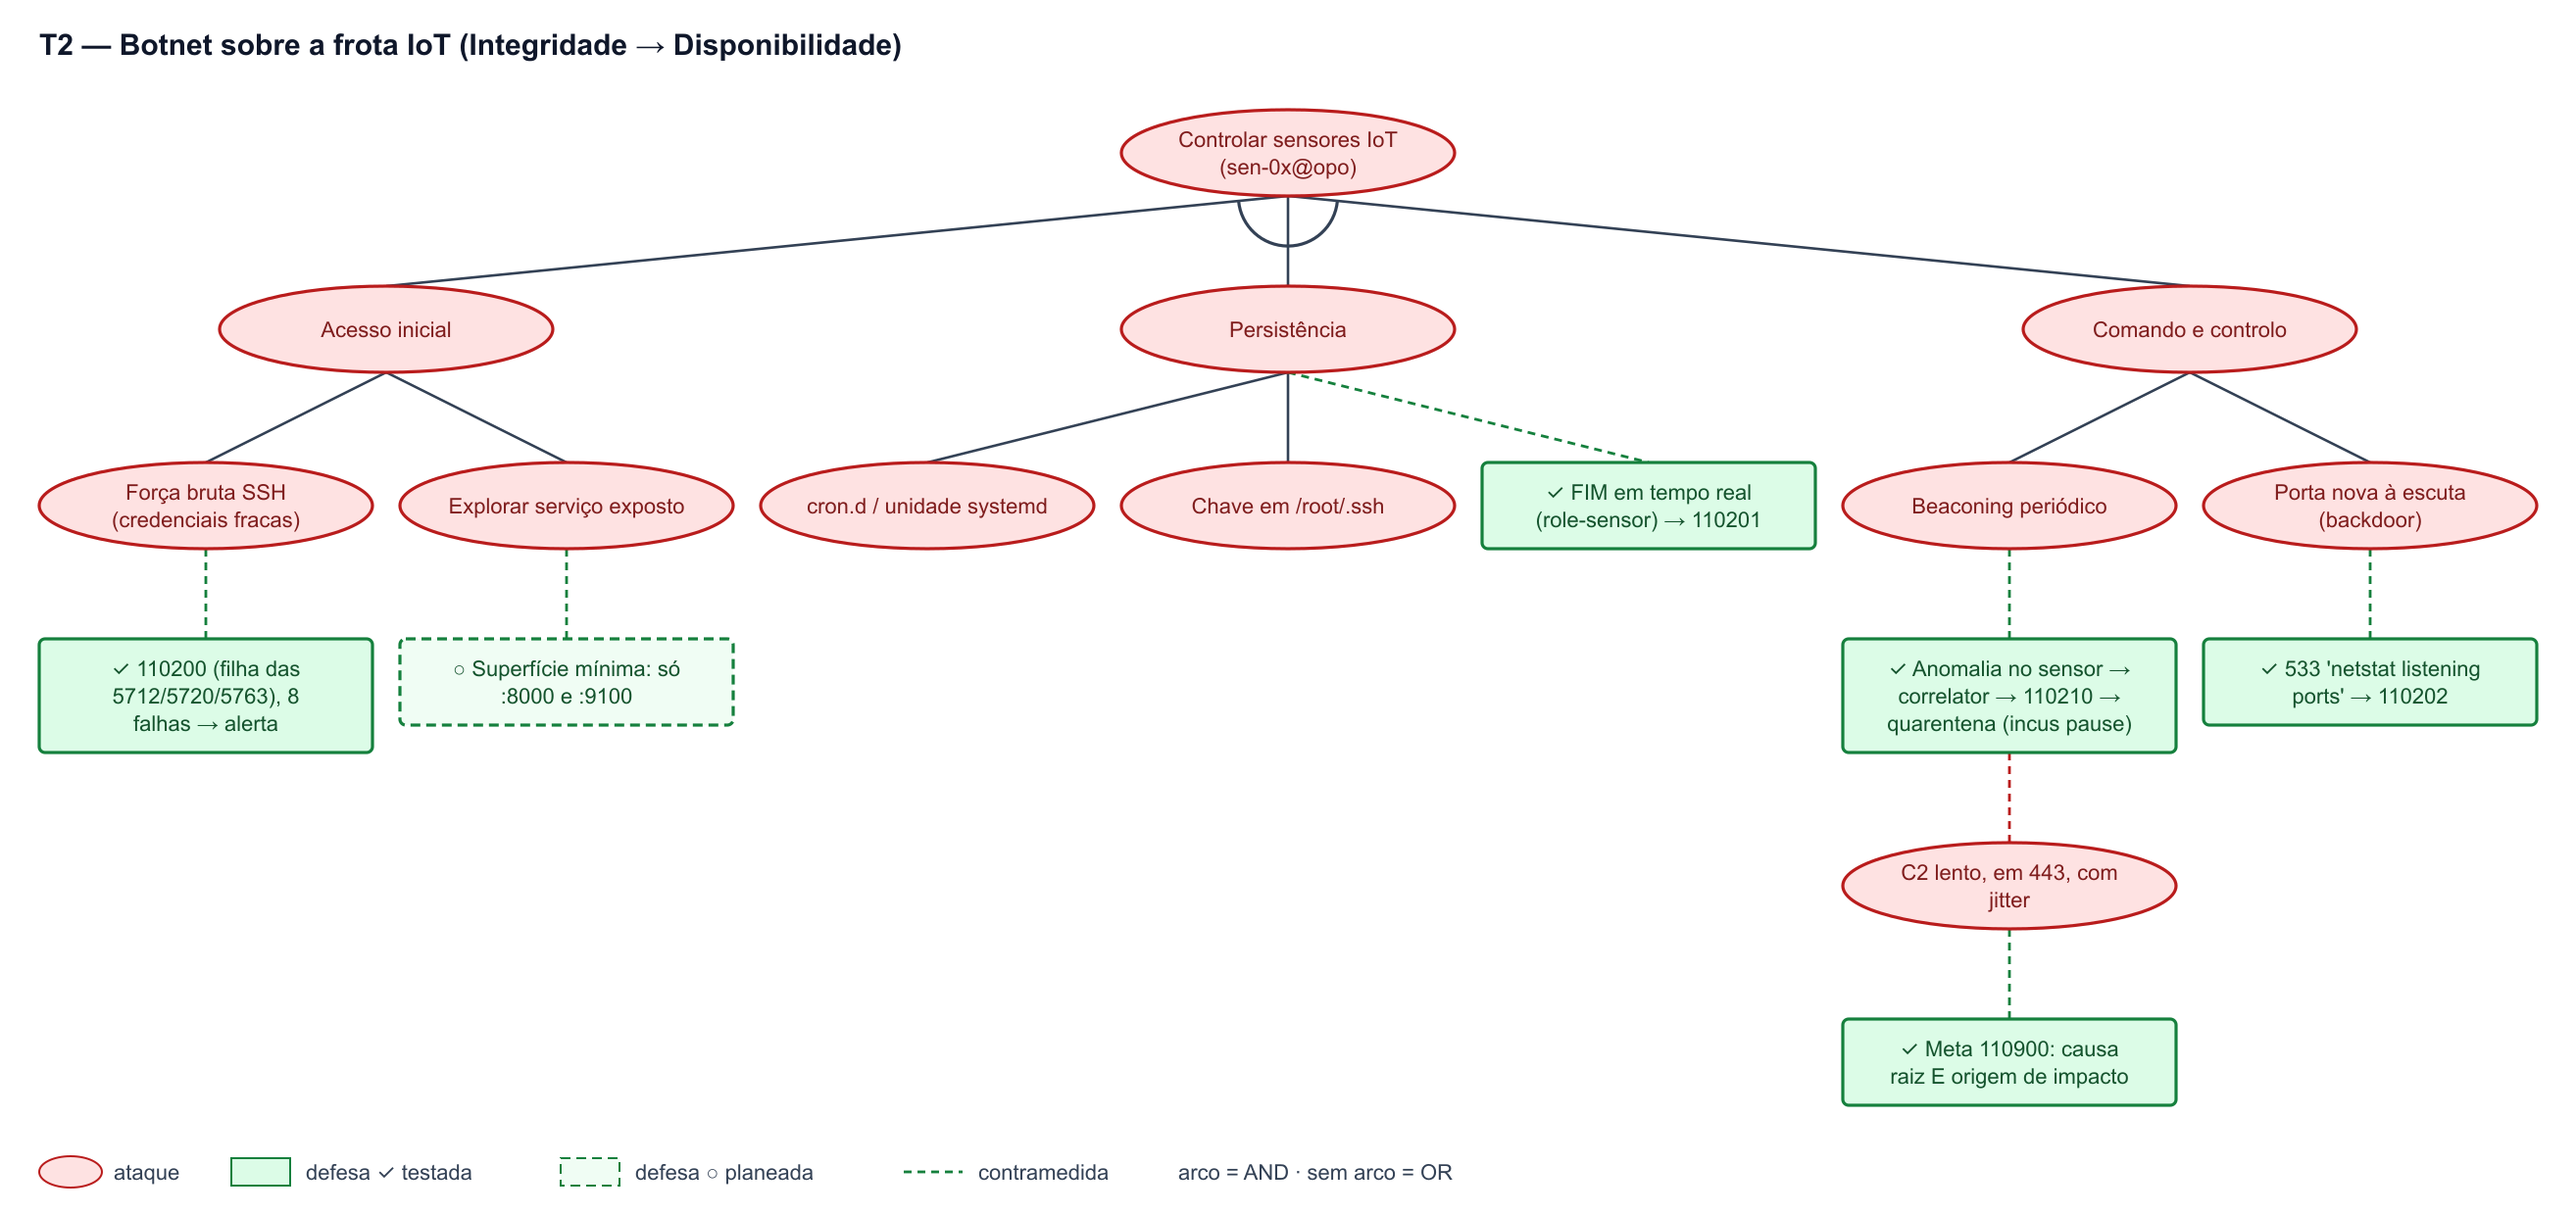
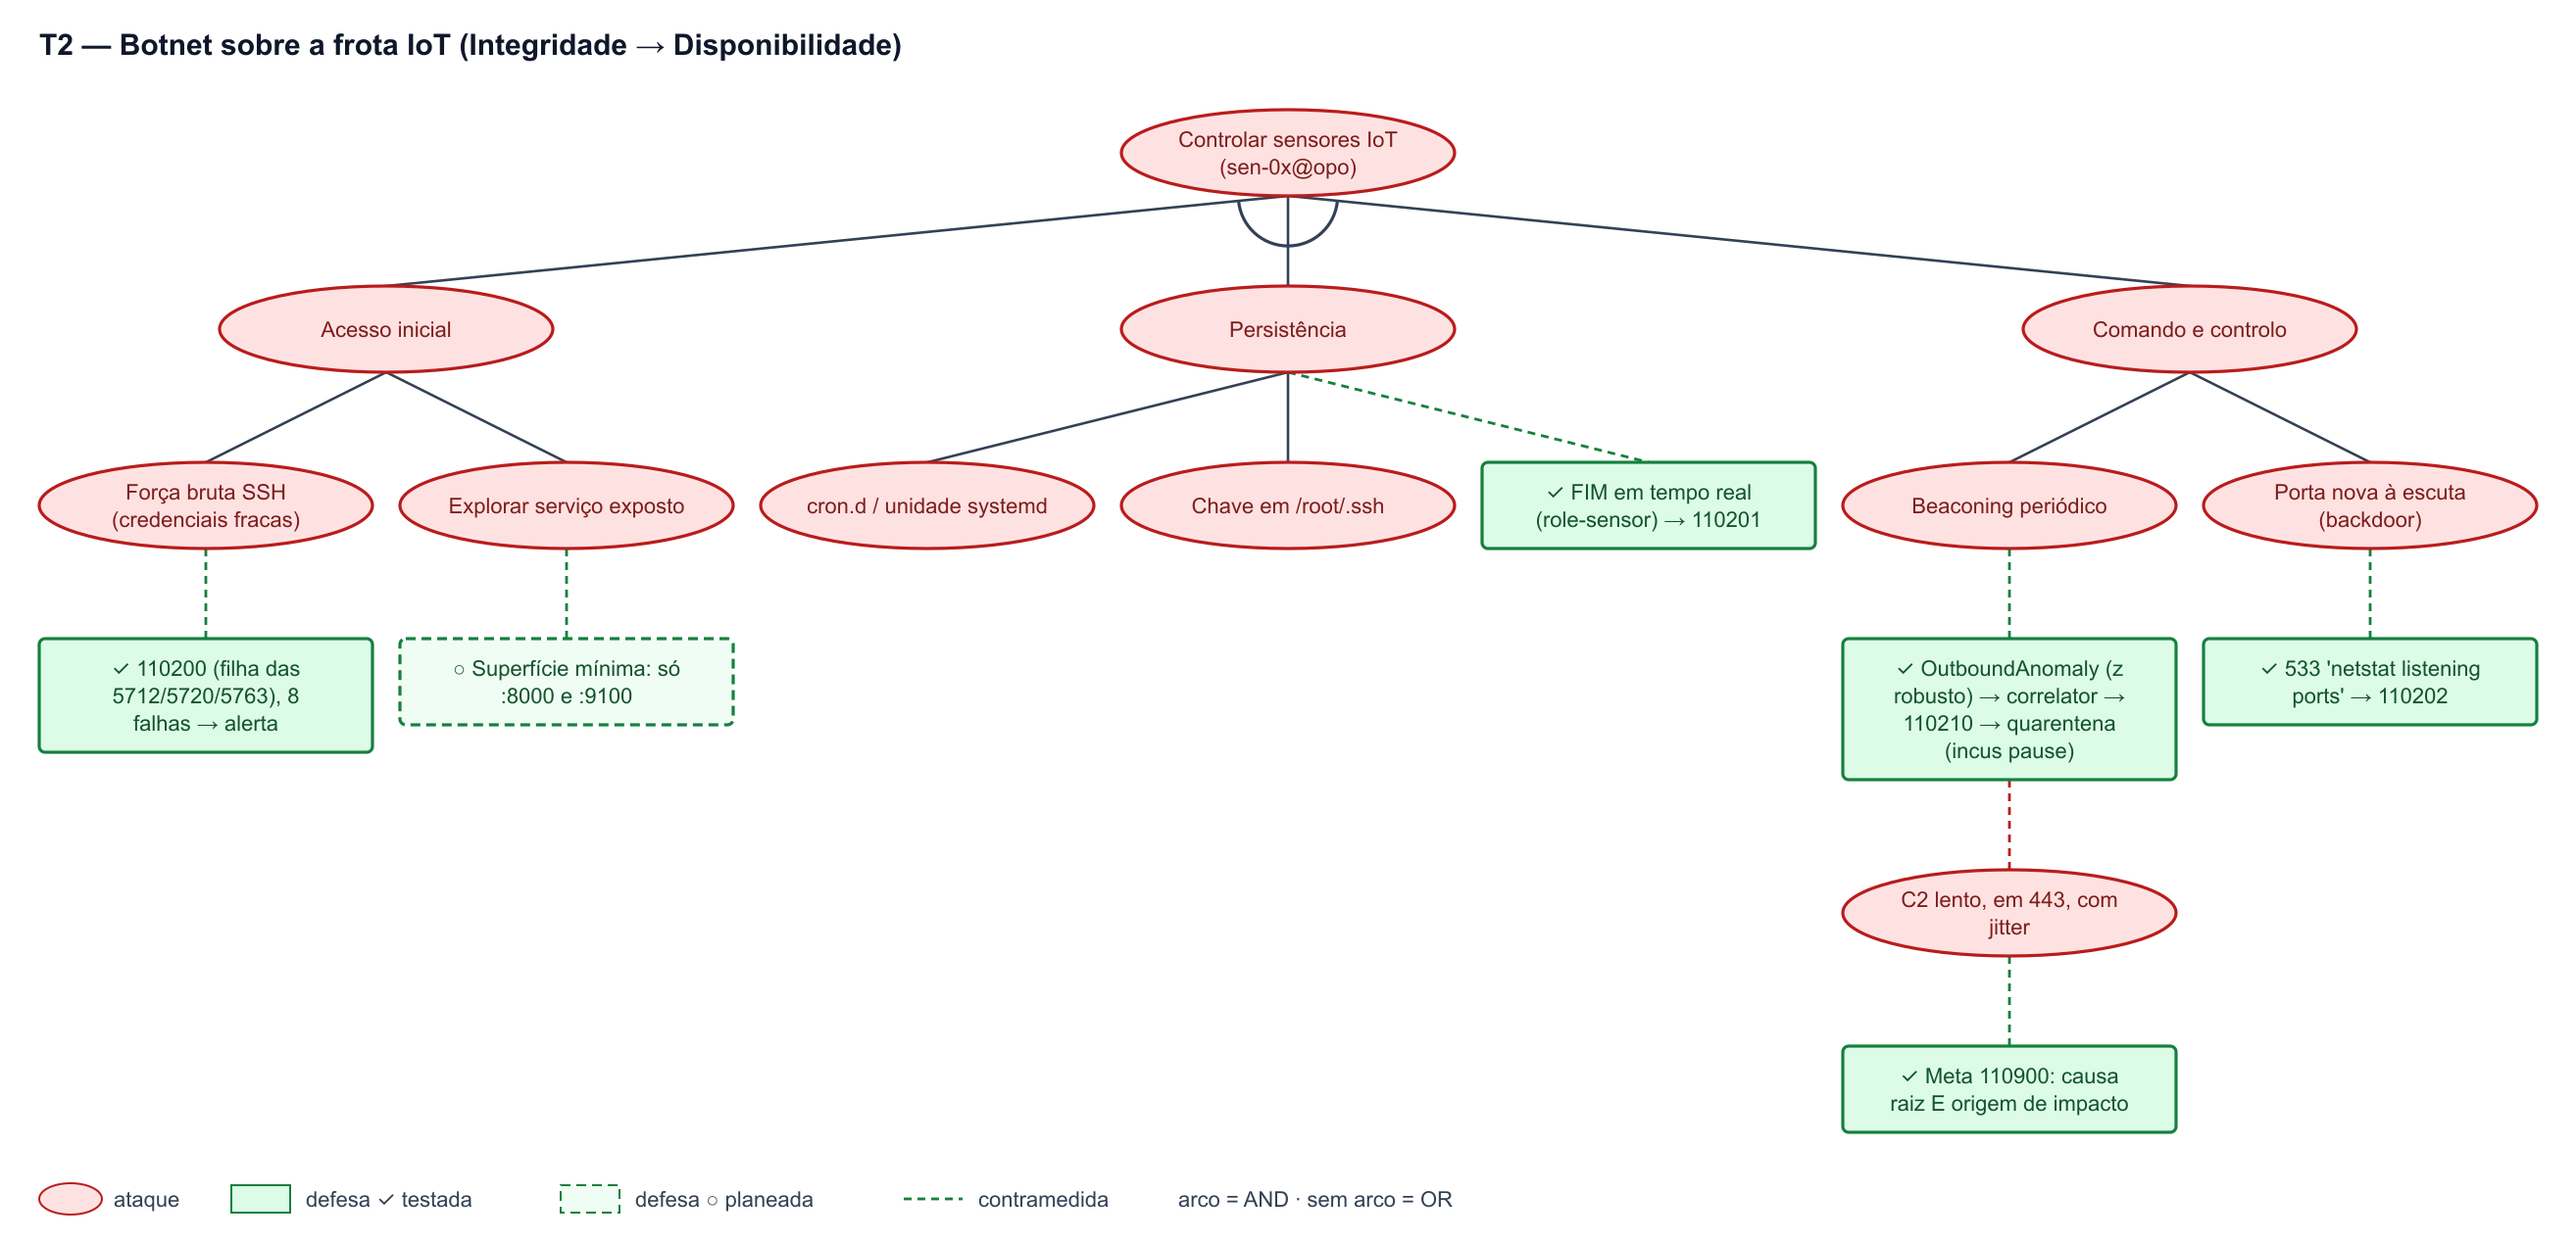
projeto1: relatorio 5.2 e ADTree T2 com o OutboundAnomaly; rastreabilidade (R7)

diff --git a/report/figures/build_adtrees.py b/report/figures/build_adtrees.py
@@ -59,7 +59,7 @@ TREES = {
                cm=D("FIM em tempo real (role-sensor) → 110201")),
              A("Comando e controlo",
                A("Beaconing periódico",
-                 cm=D("Anomalia no sensor → correlator → 110210 → quarentena (incus pause)",
+                 cm=D("OutboundAnomaly (z robusto) → correlator → 110210 → quarentena (incus pause)",
                       cm=A("C2 lento, em 443, com jitter",
                            cm=D("Meta 110900: causa raiz E origem de impacto", state="✓")))),
                A("Porta nova à escuta (backdoor)",

diff --git a/docs/rastreabilidade.md b/docs/rastreabilidade.md
@@ -10,7 +10,7 @@
 | R4 | Localização geográfica + delegação | projetos/redes Incus por site; grupos/`agent.conf` Wazuh; rotas Alertmanager por `team` | ✅ / 🧩 |
 | R5 | (Bónus) monitorizar por localização poupando banda | Prometheus hierárquico; **federation só de agregados** (`site:up:ratio` visível no global); Grafana SOC com **Geomap** (`site:info:last`) e o custo da federation por site; drill-down vai ao `prom-01` do site (`monitoring/grafana/README.md`) | ✅ (falta medir bytes com/sem agregação — F4) |
 | R6 | Localizar rapidamente a origem | labels em todos os alertas + **causa raiz** no `incidents.json` | ✅ |
-| R7 | Prometheus (anomalias) + correlação p/ causa raiz | regras site (`TrafficAnomaly` z robusto + `ServiceLatencyHigh`, `monitoring/tests/anomaly_test.yml`); Alertmanager (inibição); **correlator** (RCA por grafo); T1 ao vivo: 3/3 detetados, 0 FP, causa raiz `ing-01` 3/3 (`threats/t1-ddos/evidence/results.md`) | ✅ |
+| R7 | Prometheus (anomalias) + correlação p/ causa raiz | regras site (`TrafficAnomaly` z robusto + `ServiceLatencyHigh`, `monitoring/tests/anomaly_test.yml`; T2: `OutboundAnomaly` sobre as ligações de saída dos sensores, `monitoring/tests/outbound_test.yml`); Alertmanager (inibição); **correlator** (RCA por grafo); T1 ao vivo: 3/3 detetados, 0 FP, causa raiz `ing-01` 3/3 (`threats/t1-ddos/evidence/results.md`) | ✅ |
 | R8 | FCAPS detetar→diagnosticar→correlacionar→resolver→post-mortem | detetar/correlacionar ✅ (T1: MTTD 82 s / SOC 93 s); resolver: respostas executadas por agentes reais (`siem/tests/it-agents.sh`: nft no `ing-01`, `incus pause` no responder) ✅, medição do MTTR no T490 🧩; post-mortem T1 ✅, T2/T3 ✍ | parcial |
 | R9 | SIEM: 3 tipos de incidente + action-response | `siem/rules` (1100–1109xx): **23/23 casos** no `wazuh-analysisd` real (`siem/tests/run-logtest.sh`) + integração com 4 agentes reais (`siem/tests/it-agents.sh`, incl. meta-correlação entre agentes); respostas `siem/active-response` (`test-ar.sh`) e `siem/manager/ossec-ssle.conf` gerado do inventário | ✅ (sem lab) / 🧩 (T490) |
 | R10 | SIEM: log management | `siem/shared/*/agent.conf` por grupo (site/papel): auth.log, log de acesso *combined*, mail.log, `incidents.json`, FIM, comando de portas; labels de identidade em cada alerta (`it-agents.sh`) | ✅ (sem lab) / 🧩 (T490) |

diff --git a/siem/tests/README.md b/siem/tests/README.md
@@ -36,7 +36,7 @@ wazuh-analysisd: INFO: Total rules enabled: '8468'
 (qualquer carácter), `^`, `$` e `|` entre padrões inteiros — **sem** `[...]`, `(...)` nem *backtracking*. Para
 mais do que isso: `type="pcre2"` no `<field>`/`<regex>`/`<match>`.
 
-## 2. Casos de regra — `cases.json` (23 casos, com asserções)
+## 2. Casos de regra — `cases.json` (25 casos, com asserções)
 
 O `run-logtest.sh` corre cada caso numa **sessão** do logtest (o estado de `frequency`/`if_matched_*` acumula-se
 como no manager a sério) e compara regra, nível, decoder e campos. Há casos **negativos** (o que NÃO pode
@@ -52,7 +52,7 @@ alertar) ao lado de cada positivo — sem eles, uma regra que dispara sempre pas
   ✓ meta: sensor comprometido E origem de relay → uma botnet, dois impactos — regra 110900
   ✓ meta: relay de OUTRA origem não correlaciona com o sensor — regra 110302
   …
-23/23 casos passaram
+25/25 casos passaram      (desde 09/11: + vaga só com GTUBE; + sensor vítima da T1 SEM quarentena → 110211)
 ```
 
 ### Defeitos que os casos apanharam (08/11/2026, manager 4.14.10 real)
